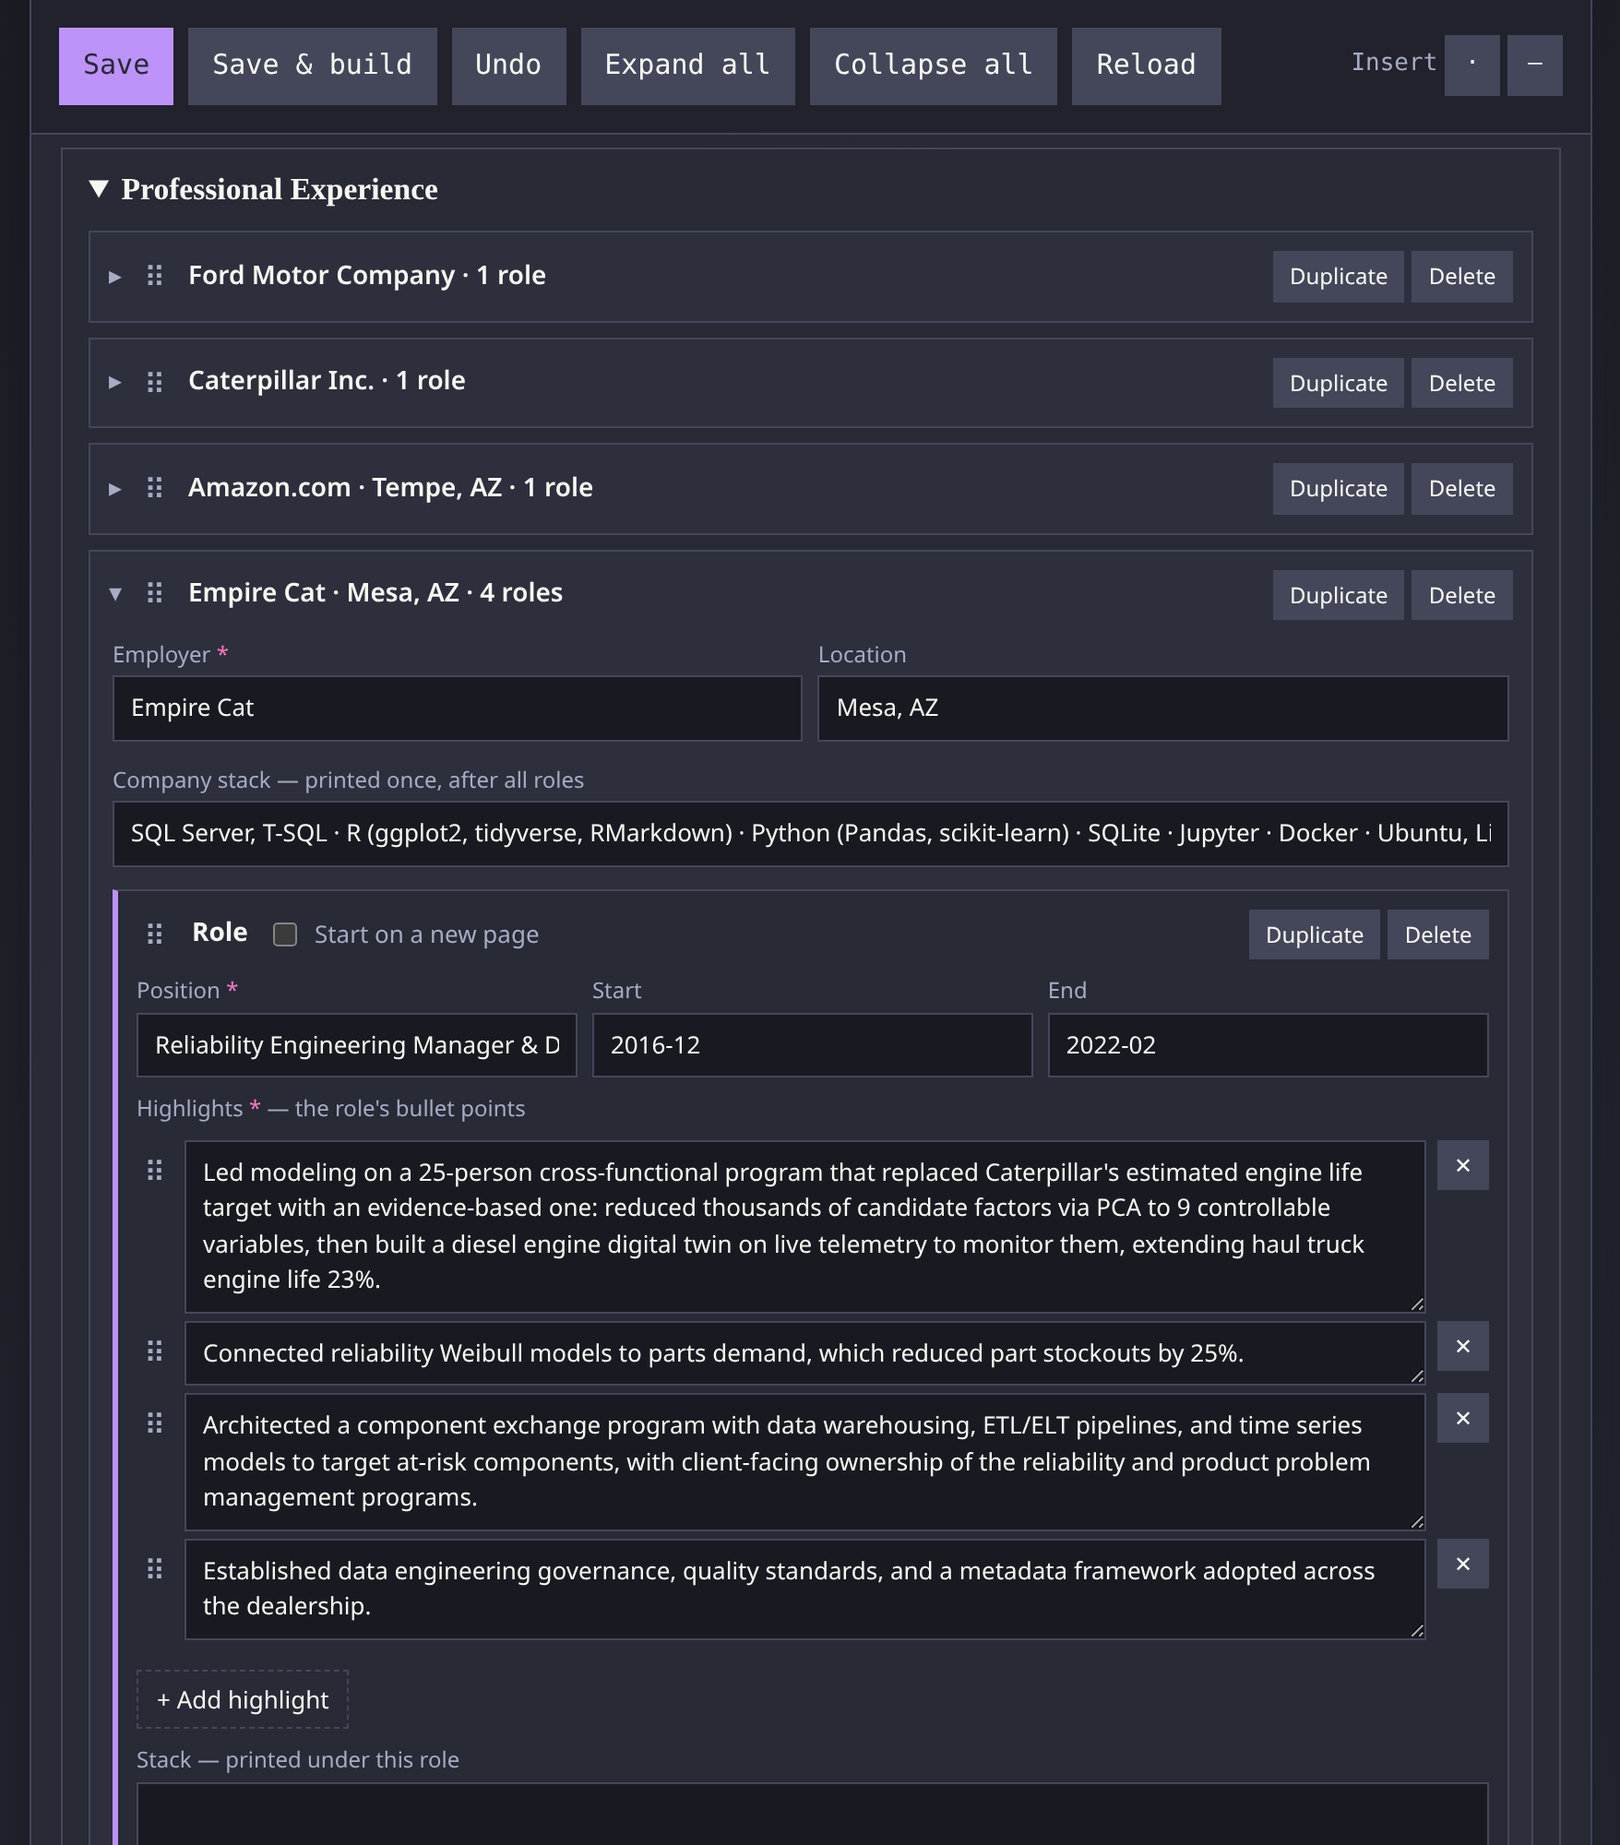
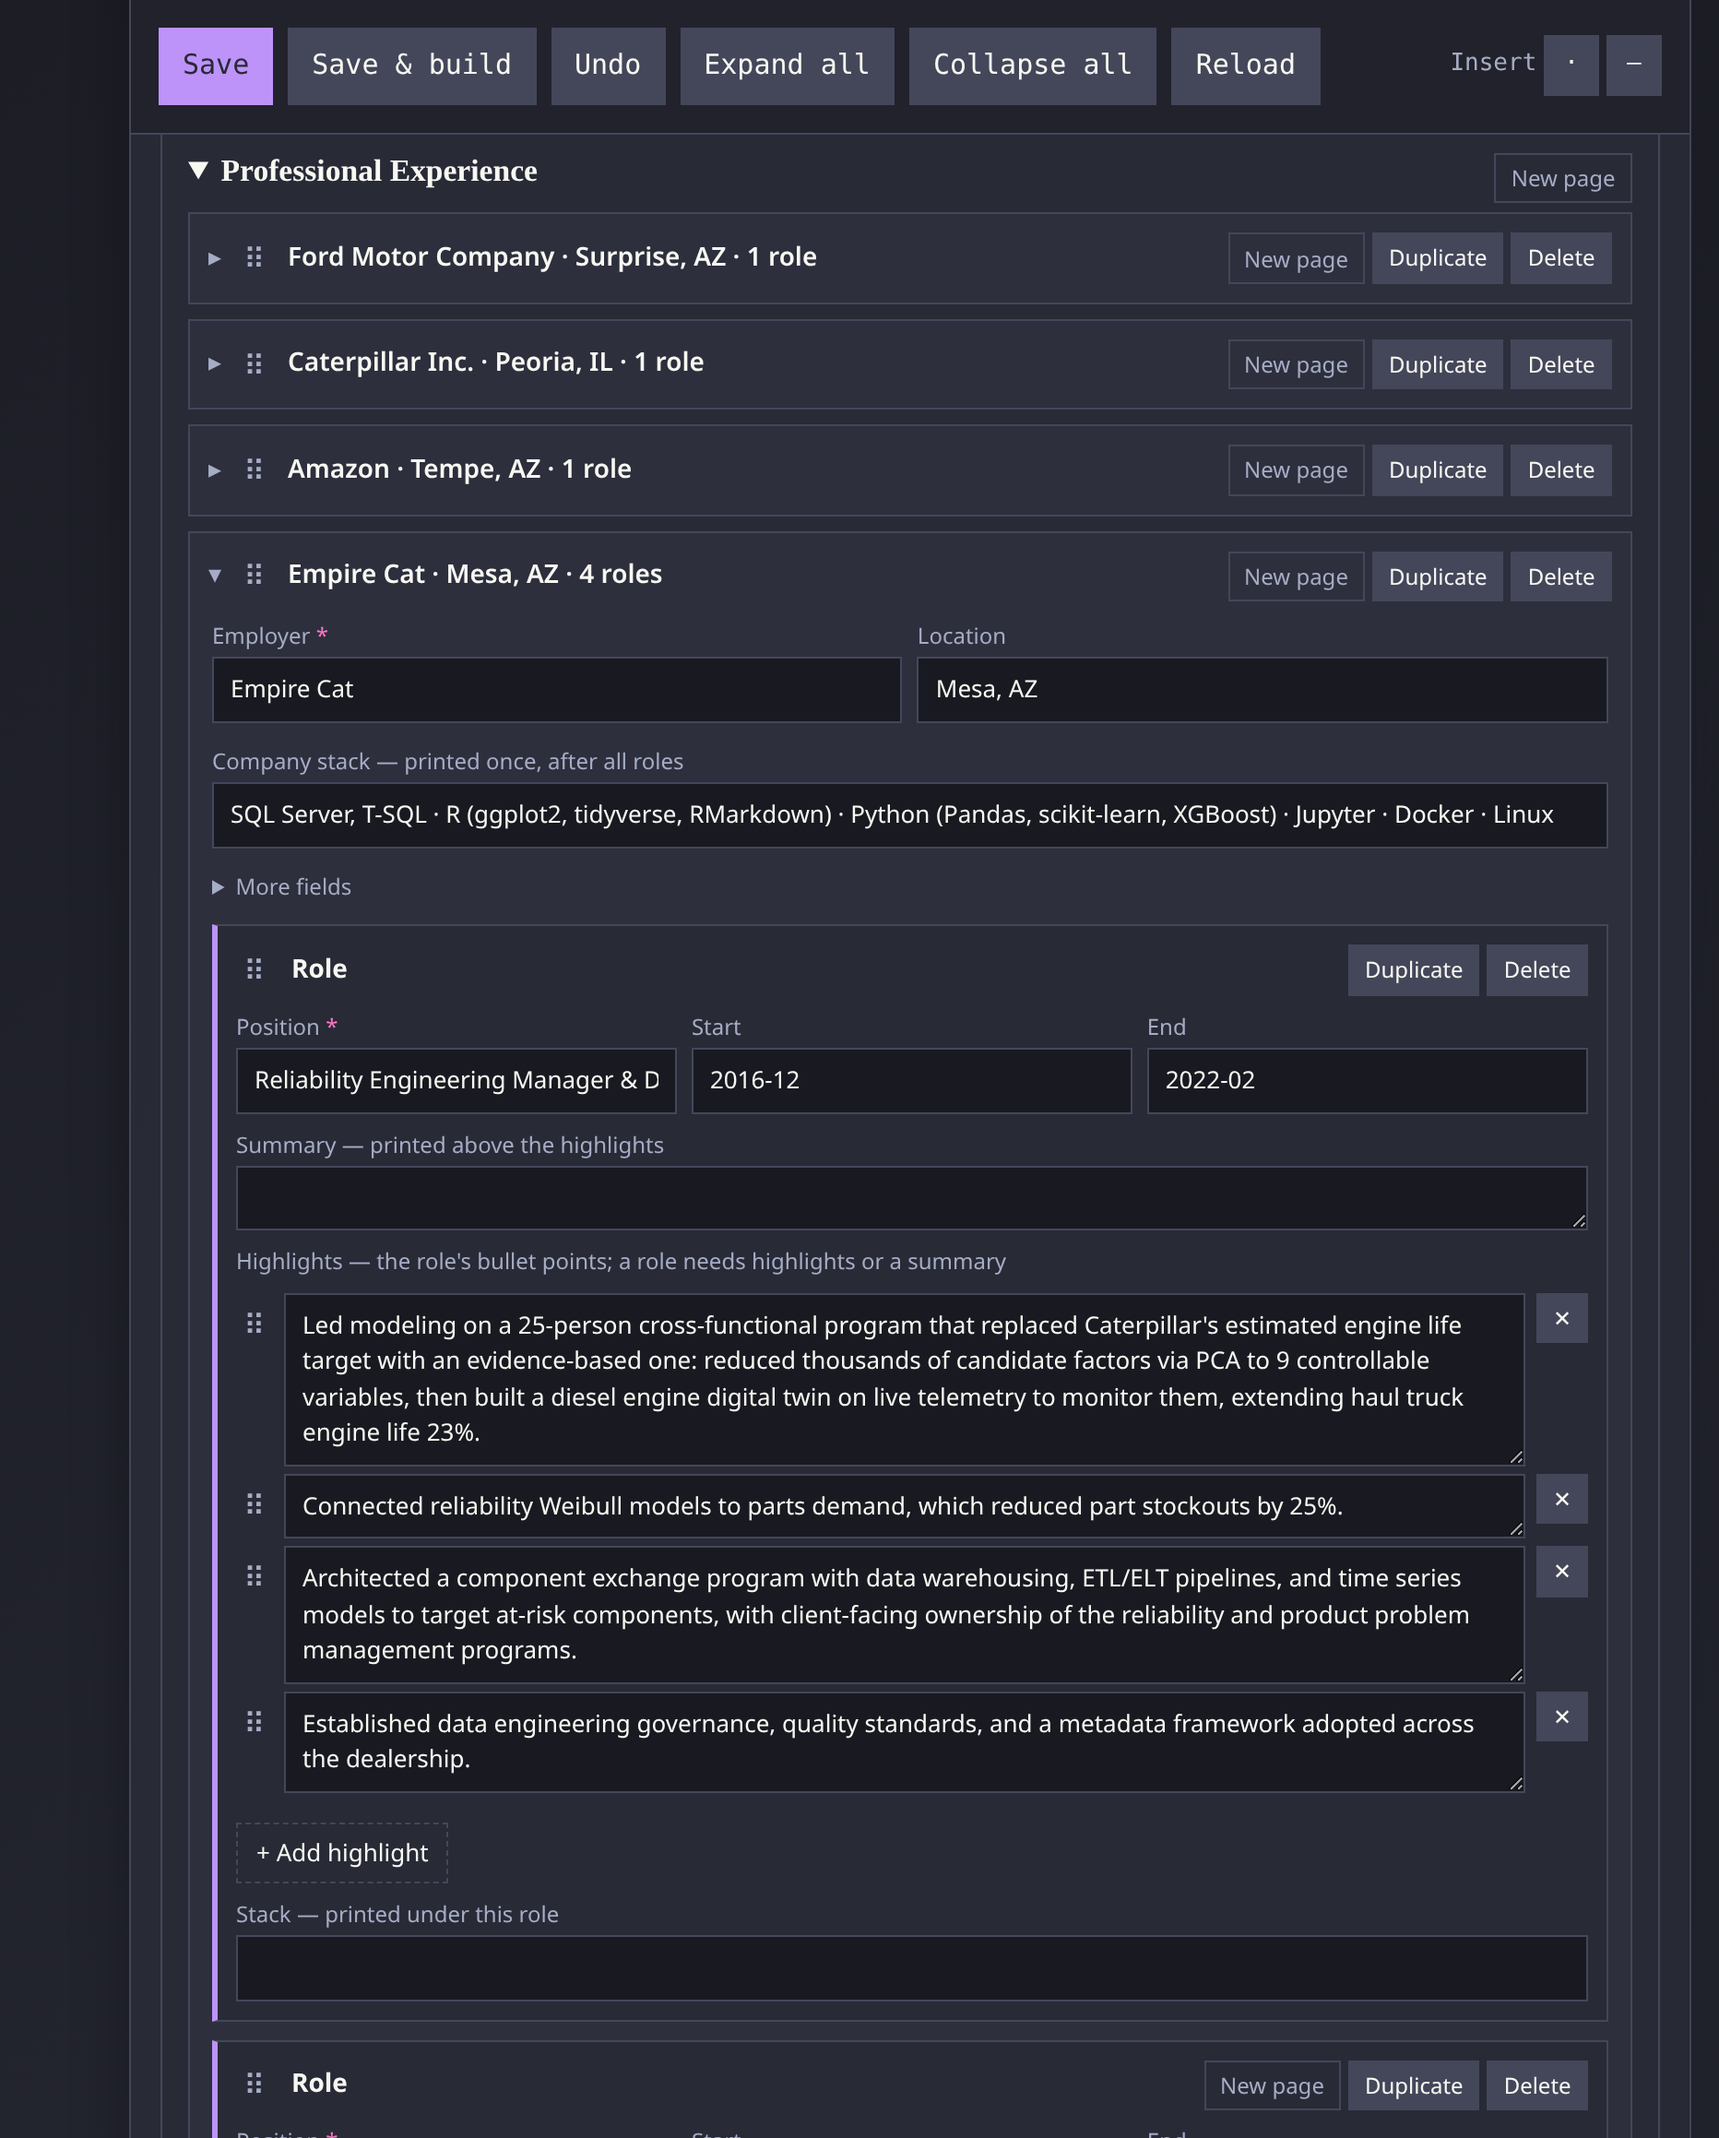
updated README.md

diff --git a/README.md b/README.md
@@ -44,8 +44,8 @@ workflow instead.
 2. Run `make build`.
 3. Open `output/resume.pdf` or `output/resume.txt`.
 
-To create a filename based on the name in the header, run `make user`. The
-current generated copy is `output/todd_takala_resume.pdf`.
+To create a filename based on the name in the header, run `make user` (for
+example, "Todd Takala" gives `output/todd_takala_resume.pdf`).
 
 Example output: [resume.pdf](output/resume.pdf) and
 [resume.txt](output/resume.txt).
@@ -70,7 +70,7 @@ Example output: [resume.pdf](output/resume.pdf) and
 - `make user` creates `output/<name>_resume.pdf`, where `<name>` is the `basics.name`
   field from [input/resume.json](input/resume.json), lowercased, with spaces
   replaced by underscores and everything else reduced to alphanumerics/underscores
-  — currently `output/todd_takala_resume.pdf`.
+  (for example, "Todd Takala" gives `output/todd_takala_resume.pdf`).
 - `make editor` starts the local browser editor: a drag-and-drop block view of
   the resume, raw tabs for the input files, the `build`/`user` Makefile
   targets, and the generated PDF.
@@ -120,18 +120,20 @@ the fields map onto the printed resume (the section id is what
 | References (`references`) | `references[]`: `name` and `reference` |
 | Core Competencies (`competencies`) | `skills[]`: `name (level)`, then `keywords` joined with `·` |
 
-Fields not listed above (`basics.image`, `location.address`/`postalCode`/`countryCode`,
-the `url` fields, `work[].description`, award and certificate dates, project
-`roles`/`entity`/`type`/dates, and `meta`) are kept in the file and editable in the
-block editor, but aren't printed.
+Fields not listed above are kept in the file and editable in the block
+editor, but aren't printed: `basics.image`, `location.address`/`postalCode`/`countryCode`,
+the `url` on entries (only `basics.url` and the profile links print),
+`work[].description`, an early-career entry's `location` and `highlights`,
+award `date`/`awarder`, certificate `date`, project `roles`/`entity`/`type`/dates,
+and `meta`.
 
 [input/section_order.yaml](input/section_order.yaml) sets the order of these
 sections; omit a section to leave it out of the resume. All of them are listed
 by default, and a section with no entries in `resume.json` (no `volunteer[]`,
 say) is skipped, along with any page break before it, so it starts printing
 once you add an entry. A `- pagebreak` line starts the section after it on a
-new page. The block editor's Sections card
-and **New page** toggles edit this file for you.
+new page. The block editor's Sections card and **New page** toggles edit this
+file for you.
 
 The schema allows extra fields on any entry, and a few LaTeX-specific ones
 are used:
@@ -191,18 +193,28 @@ The editor opens on the **Resume (blocks)** tab, a drag-and-drop editor for
 contact header and the section order, as in the screenshot at the top of this
 README:
 
-- The **Header** card edits `basics`: name, title, contact details, and the
-  profile links, which print in the order shown.
+- The **Header** card edits `basics`: name, title, contact details, website,
+  and the profile links, which print in the order shown. Its **More fields**
+  holds the street address, postal code, country code, and photo URL.
 - The **Sections** card sets the section order. Drag a section into the second
-  row to leave it out of the resume; its content is kept in `resume.json`.
+  row to leave it out of the resume; its content is kept in `resume.json`. A
+  section that starts on a new page is marked "new page".
 
-Below those, every JSON Resume section has a collapsible card, including the
-ones left out of the resume (marked "not in resume", and collapsed while
-empty), and a final **Document info** card edits `meta`. Every field in the
-schema has a place in these cards; fields that aren't printed are tucked
-under each entry's **More fields**, which opens by itself when one of them is
-filled in. Opening an empty section doesn't add anything to `resume.json`
-until you add an entry.
+Below those, every JSON Resume section has a collapsible card, and a final
+**Document info** card edits `meta`:
+
+![Block editor: section cards, with Education open](docs/screenshots/editor-blocks-sections.png)
+
+- Sections left out of the resume are marked "not in resume" and start
+  collapsed while empty. Sections in the resume with no entries yet are
+  marked "empty · not printed".
+- Every field in the schema has a place in these cards. Fields that aren't
+  printed are under each entry's **More fields**, which opens by itself when
+  one of them is filled in.
+- Opening an empty section doesn't add anything to `resume.json` until you
+  add an entry.
+
+Professional Experience shows one card per employer:
 
 ![Block editor: experience with a multi-role employer](docs/screenshots/editor-blocks-experience.png)
 
@@ -210,25 +222,25 @@ until you add an entry.
   section each have a drag handle (⠿) for reordering, plus Duplicate/Delete
   buttons. Roles and highlights can also be dragged from one employer or role
   to another.
-- Experience shows one card per employer, even though JSON Resume stores one
-  `work[]` entry per position. Editing the employer's name, location, website,
-  or description updates all of its roles.
+- JSON Resume stores one `work[]` entry per position, so editing an
+  employer's name, location, website, or description updates all of its
+  roles. Each role has a position, dates, an optional summary, its highlight
+  bullets, and a Stack line.
 - Fields are plain text. The **Insert · / –** buttons in the toolbar add a
   middle dot or en dash at the cursor. Dates are `YYYY-MM` (or `YYYY`), and a
-  role's blank End means Present. List fields (keywords, courses, project
-  highlights and roles) take one item per line.
+  role's blank End means Present. List fields (keywords, courses, and the
+  highlights and roles of projects and volunteer work) take one item per line.
 - Emptied optional fields are removed from `resume.json`.
 - Every section, employer, role, and entry card has a **New page** toggle that
   starts it on a new page in the PDF (highlighted when on). A section's toggle
   adds a `pagebreak` line to `section_order.yaml`, and the Sections card marks
   that section "new page"; the others set `pagebreakBefore` on the entry. An
   employer's toggle is its first role's, so the first role has none of its own.
-- **Undo** reverses the last add, delete, or move (typing uses each field's own
-  undo). **Save** checks the same rules as the generators (header fields,
+- **Undo** reverses the last add, delete, move, or New page toggle (typing
+  uses each field's own undo). **Save** checks the same rules as the generators (header fields,
   employer names, positions, a highlight or summary for each role, no blank
   highlights, required fields in each section, valid dates) and highlights
-  anything missing. **Save & build** saves, then
-  runs `make build`.
+  anything missing. **Save & build** saves, then runs `make build`.
 
 Drag-and-drop uses [SortableJS](https://github.com/SortableJS/Sortable),
 vendored in [scripts/static/](scripts/static/) so the editor works offline.
@@ -237,9 +249,8 @@ vendored in [scripts/static/](scripts/static/) so the editor works offline.
 
 The `resume.json` tab shows the same document as raw JSON, and stays in sync
 with the blocks tab. It's the fallback for fixing invalid JSON and for any
-custom fields of your own beyond the schema.
-`section_order.yaml` has no raw tab of its own, since the Sections card covers
-it.
+custom fields of your own beyond the schema. `section_order.yaml` has no raw
+tab of its own, since the Sections card and **New page** toggles cover it.
 
 ![Raw resume.json in JSON Resume format](docs/screenshots/editor-resume-json.png)
 
